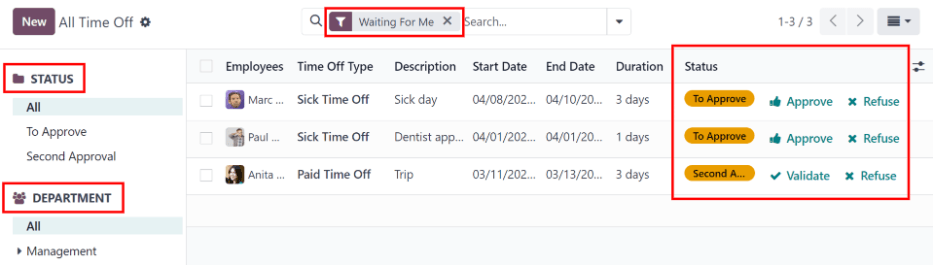
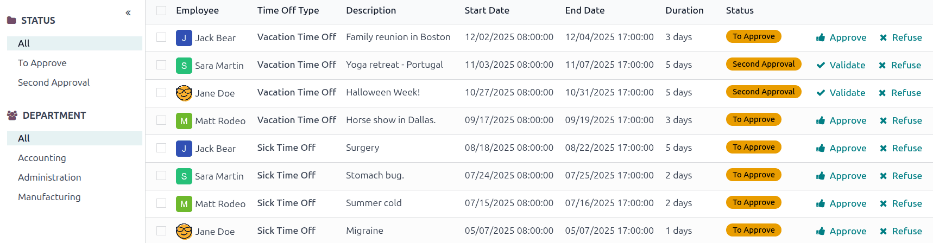
[IMP] Time Off: Updating Management
closes odoo/documentation#14325

X-original-commit: 74f54d70e38e4aa57c9ae8615ac1ec03251da8b7

diff --git a/content/applications/hr/time_off/management.rst b/content/applications/hr/time_off/management.rst
@@ -6,10 +6,10 @@ Management
 
 Time off and allocation requests undergo an approval process before being granted. Requests either
 need one or two approvals, if any, depending on how the specific type of time off is configured. All
-these configurations can be found under the *Management* section of the *Time Off* application.
+these configurations can be found under the *Management* section of the **Time Off** application.
 
-Only people who can approve allocation and time off requests have the :guilabel:`Management` section
-visible in the *Time Off* application.
+Only users who can :ref:`approve allocation and time off requests <employees/work-info-tab>` see the
+:guilabel:`Management` section in the **Time Off** application.
 
 .. _time_off/manage-time-off:
 
@@ -20,13 +20,12 @@ To view time off requests that need approval, navigate to :menuselection:`Time O
 Management --> Time Off`. Doing so reveals the :guilabel:`All Time Off` page.
 
 The only time off requests that are visible on this page belong to employees the user either has
-:guilabel:`Time Off Officer` or :guilabel:`Administrator` access rights for in the *Time Off*
+:guilabel:`Time Off Officer` or :guilabel:`Administrator` access rights for in the **Time Off**
 application.
 
-The default filter on the :guilabel:`All Time Off` page is `Waiting For Me`.
-
-This filter only presents time off requests that need to be approved for current employees on the
-user's team, with a status of either :guilabel:`To Approve` or :guilabel:`Second Approval`.
+The default filter on the :guilabel:`All Time Off` page is :icon:`fa-filter` :guilabel:`Waiting For
+Me`. This filter only presents time off requests that need to be approved for current employees on
+the user's team, with a status of either :guilabel:`To Approve` or :guilabel:`Second Approval`.
 
 On the left side of the :guilabel:`All Time Off` page, there are various grouping options that can
 be used to narrow down the presented time off requests, located beneath the :guilabel:`Status` and
@@ -39,8 +38,8 @@ The various departments the user is a member of, and manages employees under, al
 left side of the page, under :guilabel:`Departments`.
 
 .. note::
-   If there are no requests that fall under one of the status options or departments, that status
-   or department is **not** visible on the left-side menu.
+   If no requests fall under one of the status options or departments, that status or department is
+   **not** visible on the left-side menu.
 
 To only display time off requests for specific departments, click on the :guilabel:`Department` on
 the left-hand side of the page. Only requests within the selected department are then presented.
@@ -51,7 +50,7 @@ color.
 The :guilabel:`To Approve` and :guilabel:`Second Approval` requests are highlighted in yellow, and
 are the only ones that appear in the list by default.
 
-If the `Waiting For Me` filter is removed, all statuses appear.
+If the :icon:`fa-filter` :guilabel:`Waiting For Me` filter is removed, all statuses appear.
 
 :guilabel:`Approved` requests are highlighted in green, :guilabel:`To Submit` (drafts) requests are
 highlighted in blue, and the :guilabel:`Refused` requests are highlighted in gray.
@@ -66,7 +65,6 @@ To refuse a request, click the :icon:`fa-times` :guilabel:`Refuse` button at the
 line.
 
 .. image:: management/time-off-requests.png
-   :align: center
    :alt: Time off requests with the filter, groupings, and status sections highlighted.
 
 For more details, click anywhere on the time off request line (except for the :icon:`fa-thumbs-up`
@@ -89,11 +87,11 @@ To view allocations that need approval, navigate to :menuselection:`Time Off app
 Allocations`. Doing so reveals the :guilabel:`Allocations` page.
 
 The user is only presented with allocations for employees they have either :guilabel:`Time Off
-Officer` or :guilabel:`Administrator` access rights for in the *Time Off* application.
+Officer` or :guilabel:`Administrator` access rights for in the **Time Off** application.
 
-The default filters configured on the :guilabel:`Allocations` page are :guilabel:`My Team` and
-:guilabel:`Active Employee`. These default filters *only* present employees on the user's team (who
-they manage) and active employees. Inactive records are not shown.
+The default filters configured on the :guilabel:`Allocations` page are :guilabel:`First Approval`
+and :guilabel:`My Team`. These default filters only present employees that the user manages and are
+awaiting their first approval. Approved and refused allocation requests are not shown.
 
 The left side of the :guilabel:`Allocations` page has various grouping options to narrow down the
 presented allocation requests.
@@ -125,25 +123,23 @@ allocations for that specific department.
    :icon:`fa-times` :guilabel:`(remove)` icon on the specific filter to remove it.
 
 The status column displays the status of each request, with the status highlighted in a specific
-color.
+color. The :guilabel:`To Approve` requests are highlighted in yellow, and if the default
+:guilabel:`First Approval` filter is removed, the :guilabel:`Approved` requests are highlighted in
+green, and the :guilabel:`Refused` requests are highlighted in gray.
 
-The :guilabel:`To Approve` requests are highlighted in yellow, :guilabel:`Approved` requests are
-highlighted in green, and the :guilabel:`Refused` requests are highlighted in gray.
-
-To approve an allocation request, click the :icon:`fa-check` :guilabel:`Validate` button at the end
-of the line. To refuse a request, click the :icon:`fa-times` :guilabel:`Refuse` button.
+To approve an allocation request, click the :icon:`fa-thumbs-up` :guilabel:`Approve` button at the
+end of the line. To refuse a request, click the :icon:`fa-times` :guilabel:`Refuse` button.
 
 .. image:: management/allocations.png
-   :align: center
    :alt: Allocations with the filter, groupings, and status sections highlighted.
 
 If more details are needed, click anywhere on the allocation request line (except for the
-:icon:`fa-check` :guilabel:`Validate` or :icon:`fa-times` :guilabel:`Refuse` buttons) to view the
+:icon:`fa-thumbs-up` :guilabel:`Approve` or :icon:`fa-times` :guilabel:`Refuse` buttons) to view the
 specific request in detail, via the allocation request form.
 
 Depending on the rights of the user, changes can be made to the allocation request form that
 appears. To modify the request, make any desired changes to the form. All changes are automatically
 saved.
 
-It is also possible to approve or refuse the request from this form. Click the :guilabel:`Validate`
+It is also possible to approve or refuse the request from this form. Click the :guilabel:`Approve`
 button to approve, or the :guilabel:`Refuse` button to refuse the request.
